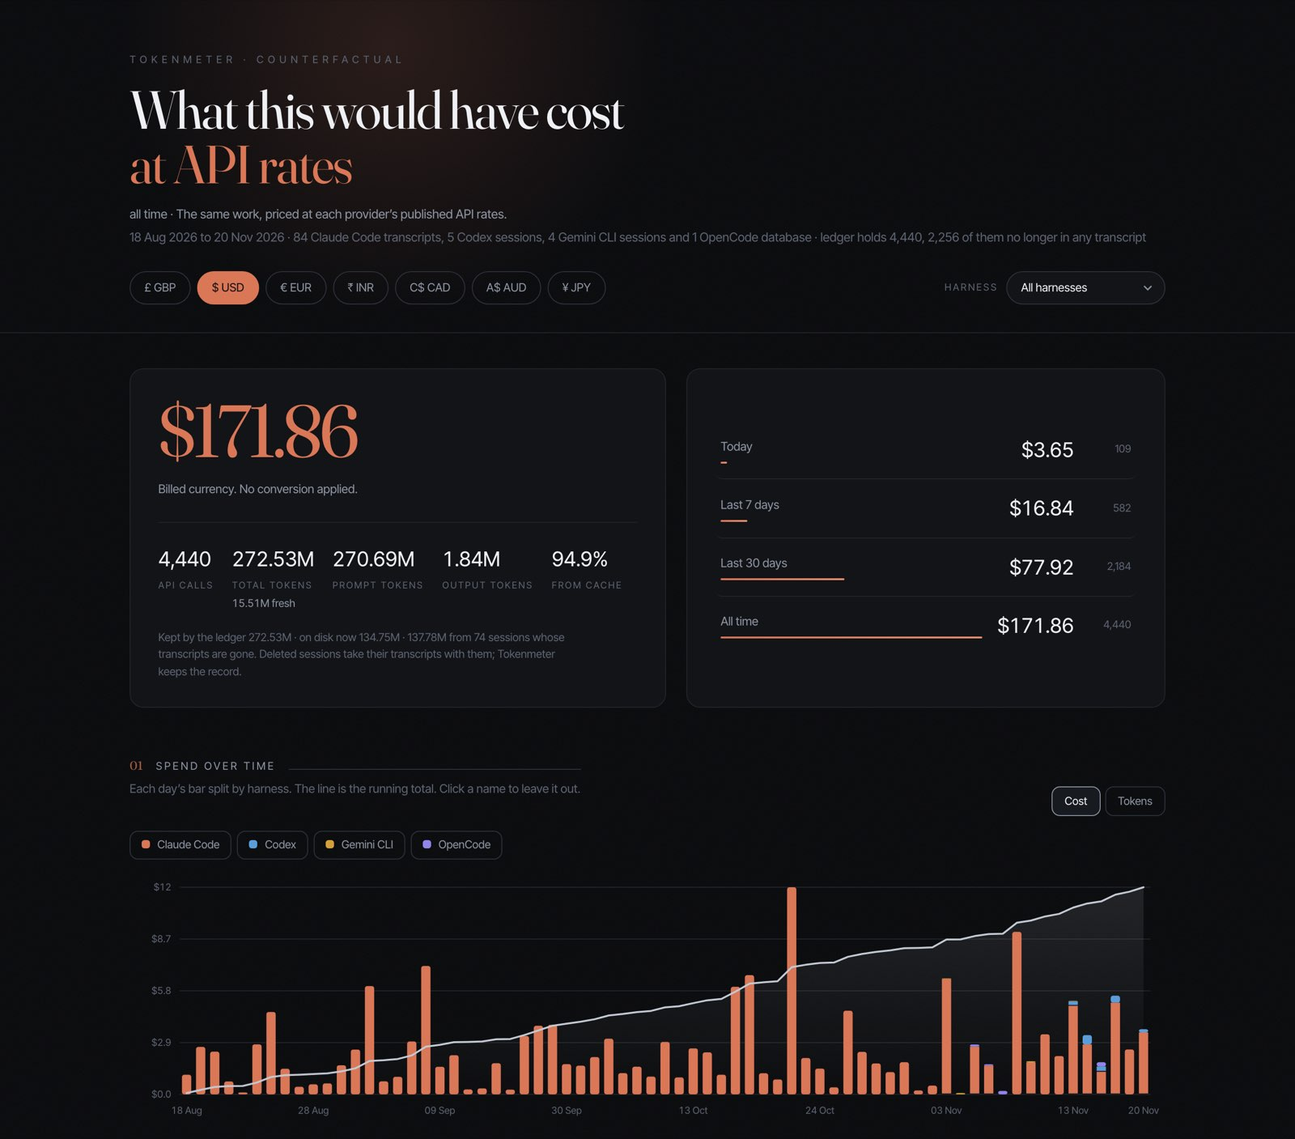
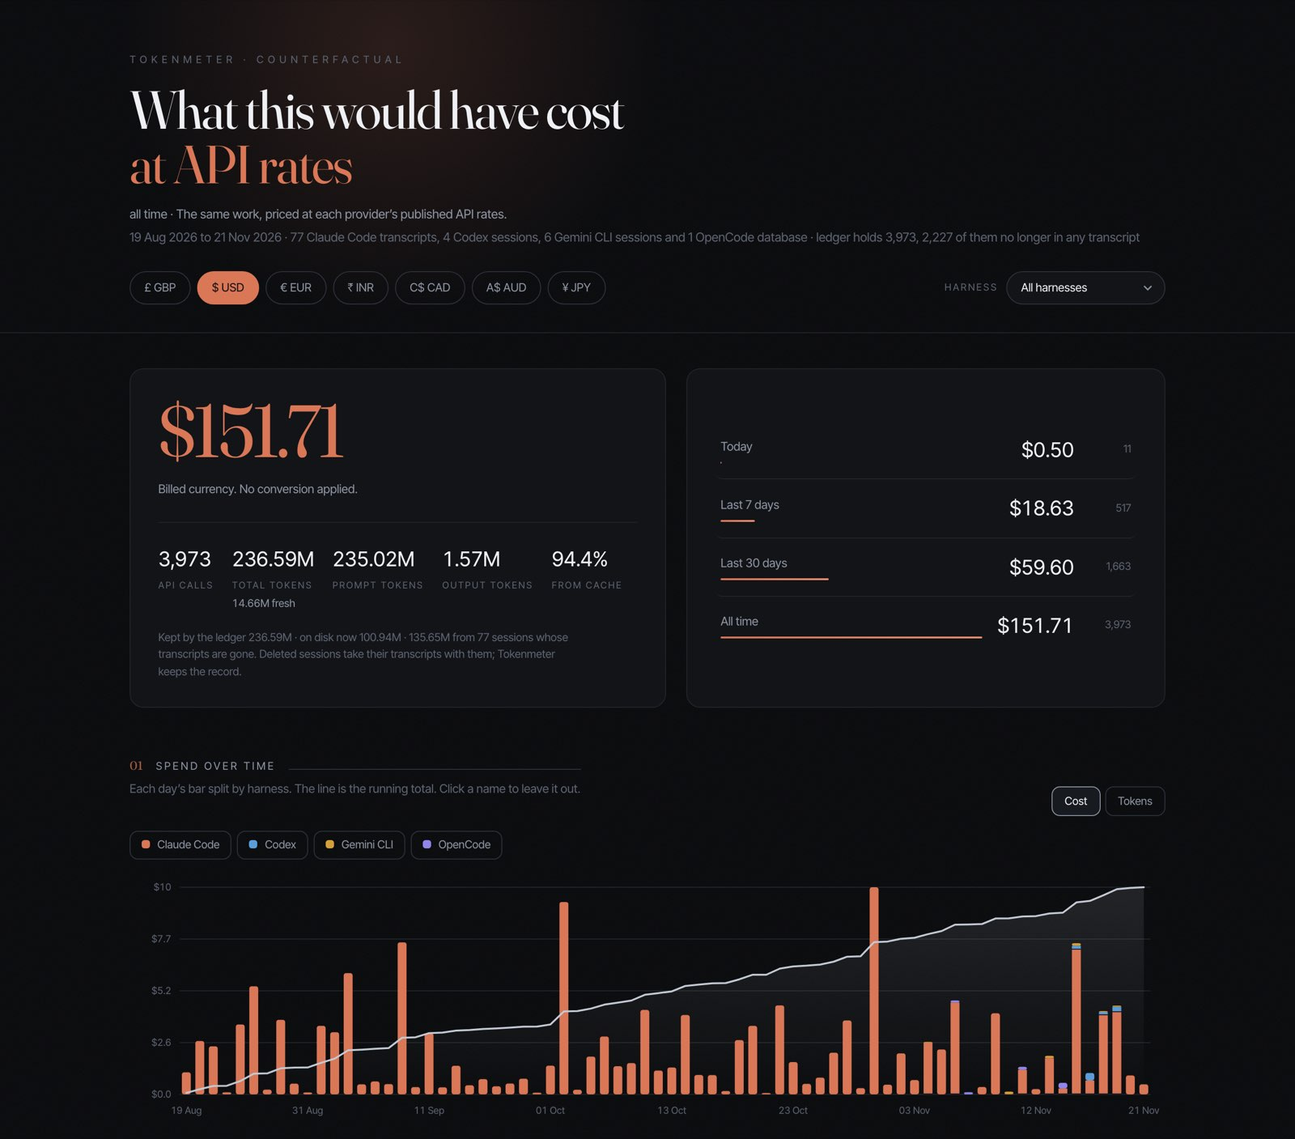
Docs and every README image follow the new menu
README, MAINTENANCE, the harness and how-it-works pages and the CHANGELOG
describe the short menu and the Preferences window. MAINTENANCE's
screenshot step 4 uses docs/screenshots/menu_shot.swift in place of a
hand capture, and its old Show tokens section becomes The menu.

Every README image, both clips and the social preview are retaken from
one demo made on 21 November 2026 (--now 2026-11-21T12:20). That day is a
Saturday, which the demo left empty, so make_demo.py now always gives the
--now day some work; no other day of the history changes.

diff --git a/docs/github/social_preview.swift b/docs/github/social_preview.swift
@@ -28,8 +28,8 @@ func hex(_ h: UInt32, _ a: CGFloat = 1) -> NSColor {
 // dashboard.css: --bg, --card, --line2, --ink, --dim, --acc, then the series.
 let BG = hex(0x090A0C), CARD = hex(0x121417), LINE = hex(0x2C313A), RULE = hex(0x212429)
 let INK = hex(0xEEF0F4), DIM = hex(0x8C94A2), ACC = hex(0xD97757)
-let SERIES: [(NSColor, CGFloat)] = [(ACC, 0.46), (hex(0x5B9DD9), 0.27), (hex(0xD4A03C), 0.18),
-                                    (hex(0x9085E9), 0.09)]
+let SERIES: [(NSColor, CGFloat)] = [(ACC, 0.282), (hex(0x5B9DD9), 0.536), (hex(0xD4A03C), 0.178),
+                                    (hex(0x9085E9), 0.004)]
 
 let args = CommandLine.arguments
 guard args.count == 3 else {
@@ -126,10 +126,10 @@ pill(card, radius: 18, fill: CARD, stroke: LINE)
 let inner = card.minX + 30, edge = card.maxX - 30
 draw([("ALL TIME, AT API RATES", DIM)], font("InterTight-Regular_Medium", 15), x: inner, top: 158,
      tracking: 1.1)
-draw([("$171.86", INK)], font("Fraunces-Regular", 62), x: inner, top: 182, tracking: -1)
+draw([("$151.71", INK)], font("Fraunces-Regular", 62), x: inner, top: 182, tracking: -1)
 let row = font("InterTight-Regular", 22), figure = font("InterTight-Regular_SemiBold", 22)
-for (i, (name, value)) in [("Today", "$3.65"), ("Last 7 days", "$16.84"),
-                           ("Last 30 days", "$77.92")].enumerated() {
+for (i, (name, value)) in [("Today", "$0.50"), ("Last 7 days", "$18.63"),
+                           ("Last 30 days", "$59.60")].enumerated() {
     let top = 282 + CGFloat(i) * 52
     RULE.setFill()
     CGRect(x: inner, y: H - top, width: edge - inner, height: 1).fill()

diff --git a/docs/screenshots/make_demo.py b/docs/screenshots/make_demo.py
@@ -17,7 +17,7 @@ TIME is a local date and time such as 2026-10-16T17:40. The history ends at
 that minute, and nothing is dated after it. Without --now it ends at the
 current minute. Tokenmeter works out today, the last 7 days and the last 30
 from the real clock, so make the demo on the day it is used: the README's
-images were made with --now 2026-11-20T17:40 on 20 November 2026, in
+images were made with --now 2026-11-21T12:20 on 21 November 2026, in
 Europe/London (TZ=Europe/London).
 
 Every figure is invented
@@ -470,7 +470,9 @@ def plan(dice: Dice, now: dt.datetime):
         if day in crunch:
             n = 5
         elif weekend:
-            n = 1 if dice.chance(0.35) else 0
+            # The --now day always has work in it, even at a weekend, or a
+            # capture made on a Saturday shows Today at nothing.
+            n = 1 if dice.chance(0.35) or today else 0
         elif today or dice.chance(0.94):
             n = max(1, round(1.3 + 1.2 * progress + dice.uniform(-0.8, 0.8)))
         else:
@@ -478,7 +480,7 @@ def plan(dice: Dice, now: dt.datetime):
         version = f"2.{3 + int(progress * 3.2)}.{1 + (i * 7) % 13}"
         starts = []
         for _ in range(n):
-            if weekend:
+            if weekend and not today:
                 h = dice.uniform(10.5, 16.5)
             elif today:
                 # A working day so far: every session has had time to run.

diff --git a/docs/screenshots/clip.py b/docs/screenshots/clip.py
@@ -3,7 +3,7 @@
 Record the README's two short clips from a demo made by make_demo.py.
 
     DEMO=/tmp/tokenmeter-demo
-    TZ=Europe/London python3 docs/screenshots/make_demo.py "$DEMO" --now 2026-11-20T17:40 --force
+    TZ=Europe/London python3 docs/screenshots/make_demo.py "$DEMO" --now 2026-11-21T12:20 --force
     TZ=Europe/London python3 docs/screenshots/clip.py "$DEMO"
 
 It writes dashboard.gif and terminal.gif beside itself. Like shoot.py, whose

diff --git a/docs/screenshots/shoot.py b/docs/screenshots/shoot.py
@@ -3,7 +3,7 @@
 Take the README's screenshots from a demo made by make_demo.py.
 
     DEMO=/tmp/tokenmeter-demo
-    TZ=Europe/London python3 docs/screenshots/make_demo.py "$DEMO" --now 2026-11-20T17:40 --force
+    TZ=Europe/London python3 docs/screenshots/make_demo.py "$DEMO" --now 2026-11-21T12:20 --force
     TZ=Europe/London python3 docs/screenshots/shoot.py "$DEMO"
 
 The last command rewrites seven images in docs/screenshots: the three

diff --git a/MAINTENANCE.md b/MAINTENANCE.md
@@ -25,7 +25,7 @@ release or retakes the README's images. Read the section the task needs.
   - [Screenshots](#screenshots)
 - **The menu bar app**
   - [Rebuilding the menu bar app](#rebuilding-the-menu-bar-app)
-  - [The menu bar's Show tokens switch](#the-menu-bars-show-tokens-switch)
+  - [The menu](#the-menu)
   - [The app icon](#the-app-icon)
 - **The dashboard**
   - [The dashboard's fonts](#the-dashboards-fonts)
@@ -118,8 +118,8 @@ figure off a pricing page and formats nothing.
 exists three times, because `--summary-json` and the dashboard's payload send
 numbers.
 
-- `toks()` in `costbar/main.swift` writes the token figures the Show tokens
-  switch adds to the menu bar's title and window rows; `String(format:)`
+- `toks()` in `costbar/main.swift` writes the token figures the Show Tokens
+  switch adds to the menu bar's title and period rows; `String(format:)`
   rounds the same double as Python does.
 - `toks()` in `dashboard/dashboard.js` writes the one count the browser adds
   up itself, the chart's running total over the series shown, and rounds an
@@ -196,7 +196,7 @@ each, every face is exactly what it was, and tests hold it there.
 - **Shared helpers** feed every face the same numbers: `harness_rows()`,
   `models_by_provider()` and `trust_summary()`.
 - **By model is the default everywhere.** The dashboard shows it first; the
-  menu bar shows it unless 'Break down by' is changed; the terminal adds
+  menu bar shows it unless Break Down By is changed; the terminal adds
   nothing unless asked with `--by source`. Harness views are a choice, not
   the page's first word.
 - **Colours follow the harness, not its rank.** `chart_series()` takes
@@ -531,7 +531,7 @@ the menu bar image is to be captured from the same history, as step 4 says.
 
 ```bash
 DEMO=/tmp/tokenmeter-demo
-TZ=Europe/London python3 docs/screenshots/make_demo.py "$DEMO" --now 2026-11-20T17:40 --force
+TZ=Europe/London python3 docs/screenshots/make_demo.py "$DEMO" --now 2026-11-21T12:20 --force
 TZ=Europe/London python3 docs/screenshots/shoot.py "$DEMO"
 TZ=Europe/London python3 docs/screenshots/clip.py "$DEMO"
 ```
@@ -548,7 +548,7 @@ again when they move; `docs/github/about.md` has the commands.
    another history; the README's were made in `Europe/London`, which is why
    both commands set `TZ`. The engine takes today and the last 7 and 30 days
    from the real clock, so make the demo on the day the images are taken,
-   with that day's date in `--now`; the README's were made on 20 November 2026
+   with that day's date in `--now`; the README's were made on 21 November 2026
    with the commands above. Another `--now` gives another history, equally
    invented.
 2. **Nothing real is read.** `$DEMO/env.sh` points every reader and cache at
@@ -590,58 +590,38 @@ again when they move; `docs/github/about.md` has the commands.
    `shoot.py` lists each file's chunks or segments to show it. If the
    dashboard's sections move, the crops follow them; `CROPS` in `shoot.py`
    holds only the margins.
-4. **`menu-bar.png` is the real menu, running against the same demo.** The
-   app finds the installed engine through your real home folder, which a
-   changed `HOME` does not move, and the engine inherits the app's
-   environment, so a second copy started like this shows the demo and
-   nothing else:
+4. **`menu-bar.png` is the real menu, running against the same demo.**
+   `docs/screenshots/menu_shot.swift` takes it: it starts the app built
+   beside its source with `env.sh` and `--open-menu`, has `screencapture`
+   take the menu's own window, trims it to the menu's edge, ends that copy by
+   its process id and makes the file plain sRGB with `shoot.py --plain`.
 
    ```bash
-   env TZ=Europe/London HOME="$DEMO/home" \
-     CLAUDE_CONFIG_DIR="$DEMO/home/.claude" \
-     TOKENMETER_CLAUDE_PROJECTS="$DEMO/home/.claude/projects" \
-     TOKENMETER_LEDGER="$DEMO/home/.claude/cost-ledger.jsonl" \
-     TOKENMETER_PRICE_CACHE="$DEMO/fetched-prices.json" TOKENMETER_OFFLINE=1 \
-     TOKENMETER_SCAN_CACHE="$DEMO/scan-cache.db" \
-     TOKENMETER_CURRENCY=USD CODEX_HOME="$DEMO/home/.codex" \
-     XDG_DATA_HOME="$DEMO/home/.local/share" \
-     OPENCODE_DB="$DEMO/home/.local/share/opencode/opencode.db" \
-     PYTHONDONTWRITEBYTECODE=1 \
-     ~/Applications/Tokenmeter.app/Contents/MacOS/Tokenmeter
+   swiftc -O -o costbar/costbar costbar/main.swift -framework AppKit
+   TZ=Europe/London swift docs/screenshots/menu_shot.swift "$DEMO" docs/screenshots/menu-bar.png
    ```
 
-   That is `env.sh` spelled out, with the time zone the demo was made in.
-
-   Before capturing:
-
-   - The copy runs the installed engine, so install the version the images
-     are for first.
-   - Capture it on the `--now` day: Today, Last 7 days and Last 30 days come
-     from the real clock, so only then does the menu match the dashboard
-     images (20 November 2026 for the README's demo).
-   - The copy shares the installed app's settings, its currency included, so
-     make the capture while the app is set to US dollars, or it will not
-     match the dollar images.
-
-   Then:
-
-   1. Find the demo's menu: two identical Tokenmeter icons are now in the
-      menu bar, and the demo's menu is the one whose All time reads $171.86,
-      for the README's demo.
-   2. Open the demo's menu, capture it (Cmd+Shift+4, then drag a box just
-      inside the menu's edge, so there is no shadow) and save it as
-      `docs/screenshots/menu-bar.png`.
-   3. Make it plain, which swaps the display's colour profile for sRGB:
-
-      ```bash
-      python3 docs/screenshots/shoot.py --plain docs/screenshots/menu-bar.png
-      ```
-
-   4. Choose Quit from the demo's menu to end the copy.
-
-   Leave Show tokens as it is, since the setting is shared, and do not choose
-   Open the full dashboard from the copy: that writes the demo's page over
-   `~/Downloads/Tokenmeter.html`.
+   - **Nothing real can get in.** Only the menu's window is captured, never
+     the screen, so the menu bar and its real figure are not in the picture.
+     The app finds the installed engine through your real home folder, which
+     `env.sh`'s `HOME` does not move, and the engine reads only the demo.
+   - **The installed app's settings are never read or written.** The script
+     passes the copy its settings on the command line, in the argument
+     domain: US dollars, Show Tokens on and Today ticked unless `--currency`,
+     `--tokens` or `--mode` say otherwise. Nothing is clicked, so nothing is
+     saved.
+   - **Submenus too.** Each `--open TITLE` opens the submenu whose title holds
+     TITLE, one level deeper each time, and saves it as `menu-bar-1.png` and
+     so on, for checking: `--open Where --open "Break Down By"`. It works
+     through the accessibility interface, since a key posted to the copy
+     closes its menu and one posted to the system goes to the app in front,
+     so the shell needs permission to control the computer as well as to
+     record the screen.
+   - **Before capturing:** install the version the image is for, since the
+     copy runs the installed engine, and capture on the `--now` day: Today
+     and the last 7 and 30 days come from the real clock, so only then does
+     the menu match the dashboard images. Take it in dark mode, as the
+     dashboard is dark, on a Retina screen.
 
 ## Rebuilding the menu bar app
 
@@ -652,24 +632,45 @@ Do not 'simplify' that to `kickstart`: launchd caches the signature it
 registered, an ad hoc signature changes on every build, and the kernel kills
 the new binary with `OS_REASON_CODESIGNING`.
 
-## The menu bar's Show tokens switch
+## The menu
 
-One switch, kept under the `showTokens` key, adds each window's total tokens
-to the title and to the four window rows; `windowLine()` writes a row, and
-off it is the name and the cost exactly as before.
+Short on purpose, the same pattern as Bytemeter's: four period rows, one
+line on caching, a warning row only when a note needs attention, Where Today
+Went, then Open Dashboard, Refresh Now, Preferences and Quit. Everything
+else is on the dashboard. The rows are copied from Bytemeter's
+`Sources/Bytemeter/MenuRows.swift` into `costbar/main.swift` (`MenuRows`,
+`MenuRowView`), since each app must build alone.
 
-The switch is an `NSSwitch` in a custom view, `SwitchRow`, which AppKit gives
-mouse events but no keys, so its menu item keeps the title and Command-T for
-the keyboard. Flipping it calls `tokensChanged()`, which changes the title,
-the rows and the switch of the menu in place: a menu built afresh only shows
-the next time it opens, and the switch leaves this one open.
-
-AppKit has no call for where a plain item's title starts or how tall it is,
-so `SwitchRow.metrics` works them out from the sizes AppKit gives a scratch
-menu, taking the room around a title as even on both sides. If a macOS
-update leaves the label or the switch out of line with the other rows, look
-there first. A switch reports its small size only once it is in a window, so
-constraints place it, not its size at build time.
+- **The period rows are standard menu items; every other row is a drawn
+  view.** AppKit gives a view in a menu item no key events, so a drawn period
+  row could not be chosen with Return (tested on macOS 27, 21 November 2026).
+  Each period row's figures sit at right tab stops (`MenuRows.period`): the
+  cost, and with Show Tokens on the tokens in grey, the costs set in by the
+  widest token count so both columns line up. AppKit keeps its shortcut
+  column to the right of a standard item's title, so the figures end about 30
+  points short of the ⌘D column, and the drawn rows end theirs on the same
+  edge (`MenuRows.figureColumn`). The rows that only inform stay views,
+  because AppKit draws a disabled item grey whatever its title's colour.
+- **Where Today Went follows the tick**: "Where 7 Days Went", "Where It All
+  Went". It holds the ticked period's cost split, with a bar and dots in the
+  dashboard's colours for the parts of a bill (`--s1` to `--s5` in
+  `dashboard/dashboard.css`, typed into `MenuRows`; a test holds them
+  equal), then the breakdown, which the engine sends for all time only, so it
+  is headed "By model, all time". Break Down By, below it, switches the
+  breakdown to harness or provider when either is mixed, saved under
+  `breakdown`.
+- **The warning row** counts the notes whose `attention` the engine sets
+  ("1 Note Needs Attention") and holds every note in its submenu. With
+  nothing to act on there is no row; the dashboard's footer prints every
+  note either way.
+- **Preferences is a window, not a submenu**, because a menu item with a
+  submenu cannot take Command-comma, and the app has only one: a second
+  opening brings it forward. It is modelled on Bytemeter's
+  `PreferencesWindow.swift` and holds Currency, with the rates line, and Show
+  Tokens. Escape and Command-W close it, since the app has no menu bar of
+  its own to carry Close. Both settings are saved under the keys they always
+  had, `currency` and `showTokens`, and a change calls `render()`, which
+  redraws the menu bar's figure and rebuilds the menu at once.
 
 ## The app icon
 

diff --git a/README.md b/README.md
@@ -68,15 +68,14 @@ One engine works everything out, and four faces show it.
 
 <img src="docs/screenshots/menu-bar.png" alt="The menu bar app's menu" width="340" align="right">
 
-The running figure, always visible, refreshed every minute: today, the last 7 days, the last 30 and all time, then where it went by model, harness or provider.
+The running figure, always visible, refreshed every minute, and a short menu under it: today, the last 7 days, the last 30 and all time, each with its tokens beside it if you like. Click one to put it in the menu bar.
 
-- **Show tokens** puts each window's tokens beside its cost.
-- **Break down by** switches between model, harness and provider.
-- **What caching is worth** prices the same tokens as if none had been cached.
-- **Currency** switches between seven currencies.
-- **Notes** holds every note the engine has, such as which readers are unverified and when each price table was last checked. A note that needs attention, such as a price page that no longer matches, stays in the menu itself.
+- **Caching saved** says in one line what caching was worth, all time.
+- **A warning row** appears only when a note needs attention, such as unverified readers carrying a real share of the total or a price page that no longer matches. Every note is in its submenu and on the dashboard.
+- **Where Today Went** follows the period you ticked: its cost split into cache writes, cache reads, output and input, in the dashboard's colours, then the all-time split by model. **Break Down By** inside it switches that to harness or provider.
+- **Preferences** (Cmd+comma) holds the currency, one of seven, and Show Tokens.
 
-The image is the real app running against the demo history. The menu is taller than one screen, so the image ends before its notes, the Currency menu and Show tokens.
+The image is the real app running against the demo history.
 
 <br clear="right">
 
@@ -248,7 +247,7 @@ Environment variables move the ledger and the caches, set the currency, switch t
 | `TOKENMETER_OFFLINE` | `1` to make no network requests: no price lookups, no daily check of the price pages and no exchange rates; a saved rate is used at any age, else a built-in estimate. `--check-prices` still reads the pages it is asked to check |
 | `TOKENMETER_PRICE_CACHE` | Where looked-up prices are saved (default `.fetched_prices.json` beside the engine) |
 | `TOKENMETER_SCAN_CACHE` | Where the scan cache is kept (default `.scan_cache.db` beside the engine): what each Claude Code transcript held when it was last read, so one that has not changed is not read again. It can be deleted at any time; the next run reads everything once and writes it again |
-| `TOKENMETER_STATUS_TOKENS` | `1` to have the status line give today's total tokens beside today's cost, as `$4.56 · 1.20M today`. Off unless set to something other than `0`, so the line stays as it was. The menu bar has a switch of its own, Show tokens, in its menu |
+| `TOKENMETER_STATUS_TOKENS` | `1` to have the status line give today's total tokens beside today's cost, as `$4.56 · 1.20M today`. Off unless set to something other than `0`, so the line stays as it was. The menu bar has a switch of its own, Show Tokens, in its Preferences window |
 | `OPENCODE_DB` | Another OpenCode database to read, as a full path or a name inside OpenCode's data folder, as well as its `opencode*.db` files |
 | `NO_COLOR` | Any value but an empty one turns colour off in everything `tokenmeter` prints. Without it, colour is used only when the output goes to a terminal, so a pipe, a file and Claude Code's `/tokenmeter` get plain text. The status line keeps its colours, which Claude Code shows |
 | `FORCE_COLOR` | Any value but `0` or an empty one keeps the colour when the output is piped or saved, as a screenshot of captured output needs; `CLICOLOR_FORCE` does the same. `NO_COLOR` wins over both |

diff --git a/CHANGELOG.md b/CHANGELOG.md
@@ -1,5 +1,48 @@
 # Changelog
 
+## Unreleased
+
+The menu bar's menu is short again: about twelve rows, where it was about
+40 lines and taller than a 13-inch screen. It follows the same pattern as
+Bytemeter's menu. No figure moves.
+
+### Menu bar
+
+- **Four period rows**, Today, Last 7 days, Last 30 days and All time, the
+  cost in full contrast and, with Show Tokens on, the tokens grey beside it.
+  Click one, or reach it with the arrow keys and Return, to put it in the
+  menu bar.
+- **One line on caching**: "Caching saved $744.38 all time, 5.9x", or what
+  it cost when caching was dearer. The With and Without cache reads rows,
+  the percentage cheaper, the cache hit line and the text sparkline leave
+  the menu; the dashboard and the terminal report still give them.
+- **A warning row only when a note needs attention**, with every note in
+  its submenu. The Notes item goes; the dashboard's footer has every note.
+- **Where Today Went** follows the ticked period ("Where 7 Days Went") and
+  holds its cost split, with a bar in the dashboard's colours, then the
+  all-time breakdown by model. **Break Down By** moves inside it and still
+  switches between model, harness and provider.
+- **Preferences** (Cmd+comma, or a click) opens a small window with
+  Currency and Show Tokens. Your choices carry over. Command-T, which
+  flipped Show Tokens while the menu was open, goes with the switch.
+- Commands are in title case: Open Dashboard (Cmd+D, new), Refresh Now,
+  Quit Tokenmeter.
+
+### Screenshots
+
+- `docs/screenshots/menu_shot.swift` takes the menu's picture from the demo
+  history unaided, with the app's new `--open-menu`. Every README image and
+  the social preview are retaken from one demo, made on 21 November 2026.
+- `make_demo.py` always gives the `--now` day some work, even at a weekend,
+  so a capture made on a Saturday no longer shows Today at nothing. No other
+  day of the history changes.
+
+### Tests
+
+- 744, two of them new: the bar's colours match the dashboard's, and the
+  capture script and the app agree on `--open-menu` and the settings' names.
+  The tests that read the old menu's source now read the new one.
+
 ## 1.3.6, 21 November 2026
 
 The menu bar's menu fits the screen again. It printed every note whole on

diff --git a/docs/how-it-works.md b/docs/how-it-works.md
@@ -43,16 +43,9 @@ The last line splits the same total by where its calls are now. Deleting a sessi
 
 The dashboard gives the total in a tile beside the API calls, with the fresh tokens under it. When the ledger holds calls no transcript has any more, a note under the tiles gives the same kept and on-disk split, and why: deleted sessions take their transcripts with them, and Tokenmeter keeps the record. The Tokens view of its Spend over time chart counts each day the same way, the days only the ledger still has included.
 
-The status line can give today's total beside today's cost, `$4.56 · 1.20M today`, when `TOKENMETER_STATUS_TOKENS` is set to `1` (see [Settings](../README.md#settings)). The menu bar's Show tokens switch, in its menu, gives each window's total beside its cost: in the menu bar for the window shown, `$4.56 · 1.20M`, and on the four window rows of the menu, lined up:
+The status line can give today's total beside today's cost, `$4.56 · 1.20M today`, when `TOKENMETER_STATUS_TOKENS` is set to `1` (see [Settings](../README.md#settings)). The menu bar's Show Tokens switch, in its Preferences window, gives each period's total beside its cost: in the menu bar for the period shown, `$4.56 · 1.20M`, and on the menu's four period rows, the tokens grey beside each cost and lined up.
 
-```
-Today                $4.56 ·   1.20M
-Last 7 days         $61.20 ·  98.40M
-Last 30 days       $250.75 · 410.00M
-All time         $1,024.50 ·   1.62B
-```
-
-Flipping it changes the menu bar and every row at once and leaves the menu open. From the keyboard, Command-T toggles it while the menu is open. The status line's setting and the menu bar's switch are both off unless asked for, so each is otherwise exactly as it was.
+Flipping it changes the menu bar and the rows at once. The status line's setting and the menu bar's switch are both off unless asked for, so each is otherwise exactly as it was.
 
 `--summary-json`, which the menu bar reads, gives the same figures: a `tokens` object (`input`, `cache_write`, `cache_read`, `output`, `thinking`, `total` and `fresh`) for today, the last 7 days, the last 30 and all time, and for all time `tokens_on_disk` and `tokens_ledger_only`. `--json` gives them for its run.
 

diff --git a/docs/harnesses.md b/docs/harnesses.md
@@ -31,8 +31,8 @@ changes.
   By harness table compares cost per call and cache use, and "How far to
   trust this" shows how much of the total came from verified readers and
   from checked prices.
-- **Menu bar:** By model stays the default; "Break down by" switches it to
-  harnesses or providers.
+- **Menu bar:** By model stays the default; Break Down By, inside Where
+  Today Went, switches it to harnesses or providers.
 - **Terminal:** `tokenmeter --by source` compares harnesses side by side.
 
 ![Harnesses compared, and how far to trust the total](screenshots/dashboard-harnesses.jpg)
